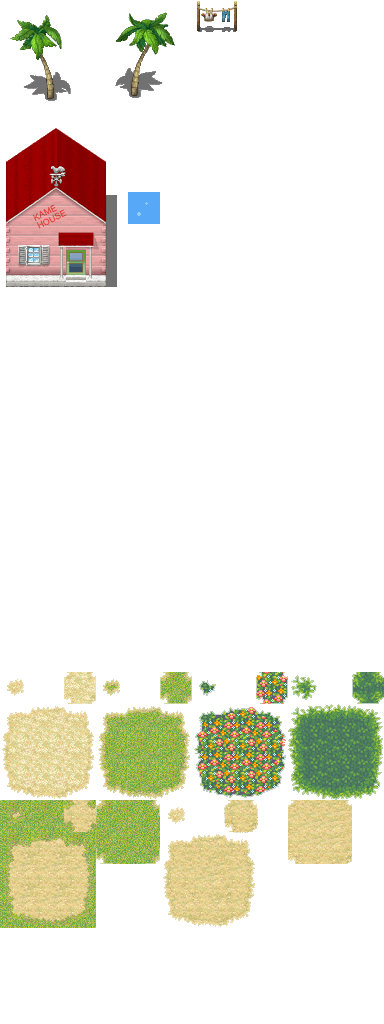
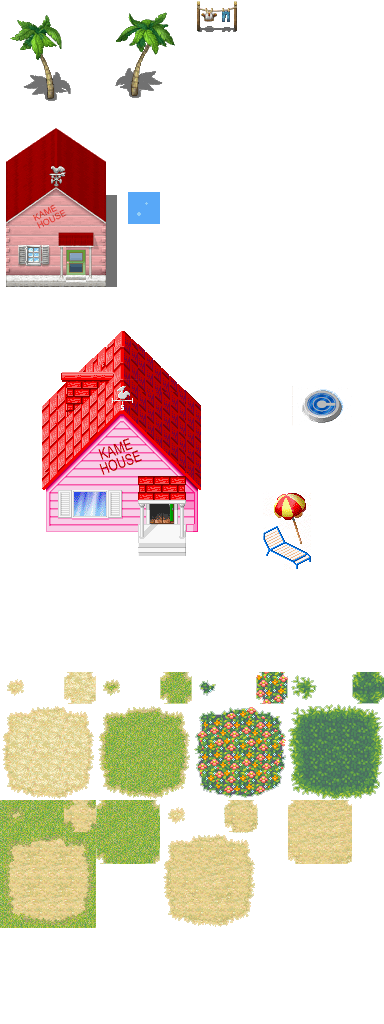
Appel des différentes maps et réaction

Changed region(s): [[0.0938, 0.3125, 0.5312, 0.5625], [0.6875, 0.4688, 0.8125, 0.5625], [0.7812, 0.375, 0.9062, 0.4375]]

diff --git a/classes/maps/worldtown.py b/classes/maps/worldtown.py
@@ -9,11 +9,10 @@ from player import *  # Import de la class Player et des composantes liées
 from sprite import *  # Import de la class Sprite et des composantes liées
 from move import *    # Import de la class Move et des composantes liées
 from niveau import *  # Import de la class Niveau et des composantes liées
-from worldtown import *  # Import de la class Niveau et des composantes liées
 
 
-class Kamehouse:
-    """ Gestion liée à l'extérieur de la map Kamehouse """
+class WorldTown:
+    """ Gestion liée à l'extérieur de la map WorldTown """
 
     def __init__(self, width, height, screen, clock, fps, avancer):
         """ Récupère les variables importantes depuis la class Game """
@@ -24,19 +23,19 @@ class Kamehouse:
         self.clock = clock
         self.avancer = avancer
 
-        self.while_map_kamehouse_in = False  # N'appelle par défaut pas la boucle de cette route
-        self.while_map_town = False  # N'appelle par défaut pas la boucle de cette route
+        self.while_map_kamehouse = False  # N'appelle par défaut pas la boucle de cette route
+        self.while_map_town_in = False  # N'appelle par défaut pas la boucle de cette route
 
-        self.while_map_kamehouse = True  # Boucle sur le menu affiché à l'utilisateur
+        self.while_map_town = True  # Boucle sur la carte à afficher à l'utilisateur
 
-    def while_kamehouse(self):
-        """ Boucle sur la map Kamehouse """
-        tilemap = tmx.load('ressources/maps/kamehouse/island/map.tmx', self.screen.get_size())  # Import de la map
+    def while_town(self):
+        """ Boucle sur la map WorldTown """
+        tilemap = tmx.load('ressources/maps/world/map.tmx', self.screen.get_size())  # Import de la map
         collision_total = tilemap.layers['evenements'].find('collision')  # Récupère toutes les collisions
 
         # Récupère toutes les collisions pour quitter le niveau
         exit_lvl = tilemap.layers['evenements'].find('exit')  # Intérieur de la maison
-        goto_world = tilemap.layers['evenements'].find('exit_gotown')  # Vers la ville
+        goto_kamehouse = tilemap.layers['evenements'].find('exit_gotokamehouse')  # Vers l'ile
 
         move = None  # Aucun déplacement n'est demandé par défaut
         old_pos_sprite = 'Down'  # Position par défaut du personnage (vers le bas)
@@ -45,28 +44,28 @@ class Kamehouse:
         deplacer = Move(player, self.avancer, collision_total)  # Appelle la class de déplacement
         pygame.time.set_timer(pygame.USEREVENT, 300)  # Temps de mise à jour des Sprites (300 ms)
 
-        if Niveau.COORDONNEE:  # S'il y a des données enregistrées (= sort de la maison)
-            player.player.x = Niveau.COORDONNEE[0]  # On défini les nouvelles coordonnées en X
-            player.player.y = Niveau.COORDONNEE[1]  # On défini les nouvelles coordonnées en Y
+        if Niveau.COORDONNEE_TOWN:  # S'il y a des données enregistrées (= sort de la maison)
+            player.player.x = Niveau.COORDONNEE_TOWN[0]  # On défini les nouvelles coordonnées en X
+            player.player.y = Niveau.COORDONNEE_TOWN[1]  # On défini les nouvelles coordonnées en Y
 
-        while self.while_map_kamehouse:  # Boucle infinie du jeu
+        while self.while_map_town:  # Boucle infinie du jeu
             collide_exit = CollisionController(player, exit_lvl)  # Appelle la class de collision pour quitter le niveau
             if collide_exit.collision():  # Si la collision avec la porte a lieu
-                self.while_map_kamehouse = False  # Arrête la boucle de la map Kamehouse
-                self.while_map_kamehouse_in = True  # Permet de lancer la boucle de la map Kamehouse_in
-                Niveau.LVL = 'while_map_kamehouse_in'  # Nouvelle map appellée
-                Niveau.COORDONNEE = [848, 1120]  # Localisation d'apparaission après être sorti de la maison
+                self.while_map_town = False  # Arrête la boucle de la map Kamehouse
+                self.while_map_town_in = True  # Permet de lancer la boucle de la map Kamehouse_in
+                Niveau.LVL = 'while_map_town_in'  # Nouvelle map appellée
+                Niveau.COORDONNEE_TOWN = [1250, 1700]  # Localisation d'apparaission être sorti de la maison
 
-            collide_goto_world = CollisionController(player, goto_world)  # Appelle la class de collision pour quitter le niveau
+            collide_goto_world = CollisionController(player, goto_kamehouse)  # Appelle la class de collision pour quitter le niveau
             if collide_goto_world.collision():  # Si la collision avec la porte a lieu
-                self.while_map_kamehouse = False  # Arrête la boucle de la map Kamehouse
-                self.while_map_town = True  # Permet de lancer la boucle de la map Kamehouse_in
-                Niveau.LVL = 'while_map_town'  # Nouvelle map appellée
-                Niveau.COORDONNEE = [1205, 1215]  # Localisation d'apparaission après téléporation
+                self.while_map_town = False  # Arrête la boucle de la map Kamehouse
+                self.while_map_kamehouse = True  # Permet de lancer la boucle de la map Kamehouse_in
+                Niveau.LVL = 'while_map_kamehouse'  # Nouvelle map appellée
+                Niveau.COORDONNEE_TOWN = []  # Supprime les données pour permettre une apparition par défaut
 
             for event in pygame.event.get():  # Vérifie toutes les actions du joueur
                 if event.type == pygame.QUIT:  # Clique pour quitter le jeu
-                    self.while_map_kamehouse = False  # Quitte le processus python
+                    self.while_map_town = False  # Quitte le processus python
                     Niveau.WHILE_GAME = False  # Ferme la boucle d'importation
                 elif event.type == pygame.USEREVENT:  # Déplacement du joueur
                     player.sprite_player = img_perso.animate_sprite(move, old_pos_sprite)

diff --git a/classes/maps/worldtownin.py b/classes/maps/worldtownin.py
@@ -9,11 +9,10 @@ from player import *  # Import de la class Player et des composantes liées
 from sprite import *  # Import de la class Sprite et des composantes liées
 from move import *    # Import de la class Move et des composantes liées
 from niveau import *  # Import de la class Niveau et des composantes liées
-from worldtown import *  # Import de la class Niveau et des composantes liées
 
 
-class Kamehouse:
-    """ Gestion liée à l'extérieur de la map Kamehouse """
+class WorldTownIn:
+    """ Gestion liée à l'extérieur de la map WorldTownIn """
 
     def __init__(self, width, height, screen, clock, fps, avancer):
         """ Récupère les variables importantes depuis la class Game """
@@ -24,19 +23,17 @@ class Kamehouse:
         self.clock = clock
         self.avancer = avancer
 
-        self.while_map_kamehouse_in = False  # N'appelle par défaut pas la boucle de cette route
         self.while_map_town = False  # N'appelle par défaut pas la boucle de cette route
 
-        self.while_map_kamehouse = True  # Boucle sur le menu affiché à l'utilisateur
+        self.while_map_town_in = True  # Boucle sur la carte à afficher à l'utilisateur
 
-    def while_kamehouse(self):
-        """ Boucle sur la map Kamehouse """
-        tilemap = tmx.load('ressources/maps/kamehouse/island/map.tmx', self.screen.get_size())  # Import de la map
+    def while_town_in(self):
+        """ Boucle sur la map WorldTownIn """
+        tilemap = tmx.load('ressources/maps/kamehouse/house/map.tmx', self.screen.get_size())  # Import de la map
         collision_total = tilemap.layers['evenements'].find('collision')  # Récupère toutes les collisions
 
         # Récupère toutes les collisions pour quitter le niveau
         exit_lvl = tilemap.layers['evenements'].find('exit')  # Intérieur de la maison
-        goto_world = tilemap.layers['evenements'].find('exit_gotown')  # Vers la ville
 
         move = None  # Aucun déplacement n'est demandé par défaut
         old_pos_sprite = 'Down'  # Position par défaut du personnage (vers le bas)
@@ -45,28 +42,16 @@ class Kamehouse:
         deplacer = Move(player, self.avancer, collision_total)  # Appelle la class de déplacement
         pygame.time.set_timer(pygame.USEREVENT, 300)  # Temps de mise à jour des Sprites (300 ms)
 
-        if Niveau.COORDONNEE:  # S'il y a des données enregistrées (= sort de la maison)
-            player.player.x = Niveau.COORDONNEE[0]  # On défini les nouvelles coordonnées en X
-            player.player.y = Niveau.COORDONNEE[1]  # On défini les nouvelles coordonnées en Y
-
-        while self.while_map_kamehouse:  # Boucle infinie du jeu
+        while self.while_map_town_in:  # Boucle infinie du jeu
             collide_exit = CollisionController(player, exit_lvl)  # Appelle la class de collision pour quitter le niveau
             if collide_exit.collision():  # Si la collision avec la porte a lieu
-                self.while_map_kamehouse = False  # Arrête la boucle de la map Kamehouse
-                self.while_map_kamehouse_in = True  # Permet de lancer la boucle de la map Kamehouse_in
-                Niveau.LVL = 'while_map_kamehouse_in'  # Nouvelle map appellée
-                Niveau.COORDONNEE = [848, 1120]  # Localisation d'apparaission après être sorti de la maison
-
-            collide_goto_world = CollisionController(player, goto_world)  # Appelle la class de collision pour quitter le niveau
-            if collide_goto_world.collision():  # Si la collision avec la porte a lieu
-                self.while_map_kamehouse = False  # Arrête la boucle de la map Kamehouse
+                self.while_map_town_in = False  # Arrête la boucle de la map Kamehouse
                 self.while_map_town = True  # Permet de lancer la boucle de la map Kamehouse_in
                 Niveau.LVL = 'while_map_town'  # Nouvelle map appellée
-                Niveau.COORDONNEE = [1205, 1215]  # Localisation d'apparaission après téléporation
 
             for event in pygame.event.get():  # Vérifie toutes les actions du joueur
                 if event.type == pygame.QUIT:  # Clique pour quitter le jeu
-                    self.while_map_kamehouse = False  # Quitte le processus python
+                    self.while_map_town = False  # Quitte le processus python
                     Niveau.WHILE_GAME = False  # Ferme la boucle d'importation
                 elif event.type == pygame.USEREVENT:  # Déplacement du joueur
                     player.sprite_player = img_perso.animate_sprite(move, old_pos_sprite)

diff --git a/classes/game.py b/classes/game.py
@@ -9,6 +9,8 @@ from niveau import Niveau      # Import de la class Niveau
 sys.path.append(os.getcwd() + "/classes/maps")  # Ajout du chemin pour éviter les bugs Windows
 from kamehouse import Kamehouse      # Import de la class Kamehouse
 from kamehousein import KamehouseIn  # Import de la class KamehouseIn
+from worldtown import WorldTown  # Import de la class WorldTown
+from worldtownin import WorldTownIn  # Import de la class WorldTownIn
 
 
 class Game:
@@ -43,3 +45,9 @@ class Game:
             elif Niveau.LVL == 'while_map_kamehouse_in':
                 map_kamehouse_in = KamehouseIn(self.width, self.height, screen, clock, self.fps, self.avancer)
                 map_kamehouse_in.while_kamehouse_in()  # Boucle sur la map
+            elif Niveau.LVL == 'while_map_town':
+                map_world = WorldTown(self.width, self.height, screen, clock, self.fps, self.avancer)
+                map_world.while_town()  # Boucle sur la map
+            elif Niveau.LVL == 'while_map_town_in':
+                map_world = WorldTownIn(self.width, self.height, screen, clock, self.fps, self.avancer)
+                map_world.while_town_in()  # Boucle sur la map

diff --git a/classes/niveau.py b/classes/niveau.py
@@ -3,5 +3,6 @@ class Niveau:
 
     LVL = 'while_main_menu'  # Niveau par défaut
     WHILE_GAME = True        # Boucle de jeu
-    COORDONNEE = []          # Sauvegarde de la position du joueur
+    COORDONNEE = []          # Sauvegarde de la position du joueur dans la map Kamehouse
+    COORDONNEE_TOWN = []     # Sauvegarde de la position du joueur dans la map WorldTown
     DIALOGUE = False         # Boolen en cas de dialogue

diff --git a/README.md b/README.md
@@ -81,7 +81,7 @@ Création d'un jeu au design du manga Dragon Ball avec Python (PyGame). Le conce
 - [16/05/19] : Boucle sur les interfaces, sauvegarde des coordonnées, ajustement du personnage au niveau des sprites, division du code en plusieurs fichiers et ajout de commentaires.
 - [17/05/19] : Ajout de la musique, d'un personnage, système d'interaction et première mission.
 - [20/05/19] : Optimisation du code, ajout du personnage qui parle, transparence de la map et arrêt du sprite.
-- [21/05/19] : Création d'une nouvelle map, collision et maison pour la mission n°1.
+- [21/05/19] : Création d'une nouvelle map, collision et maison pour la mission n°1, appel des différentes maps et réaction.
 
 
 ### **Informations :**
